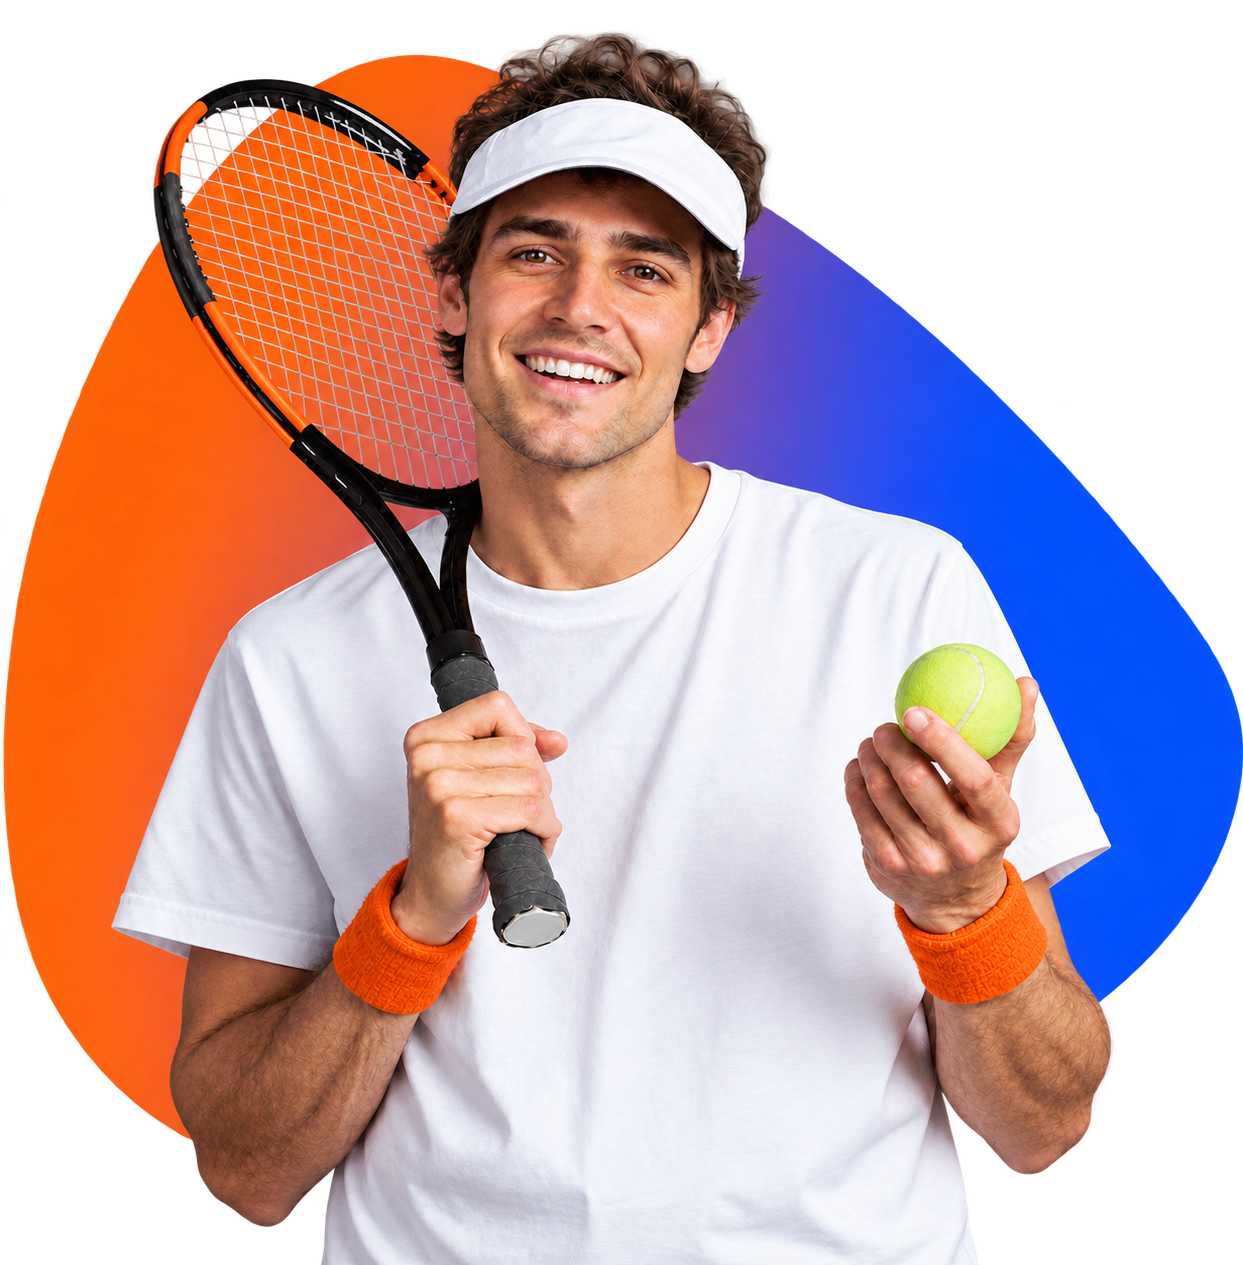
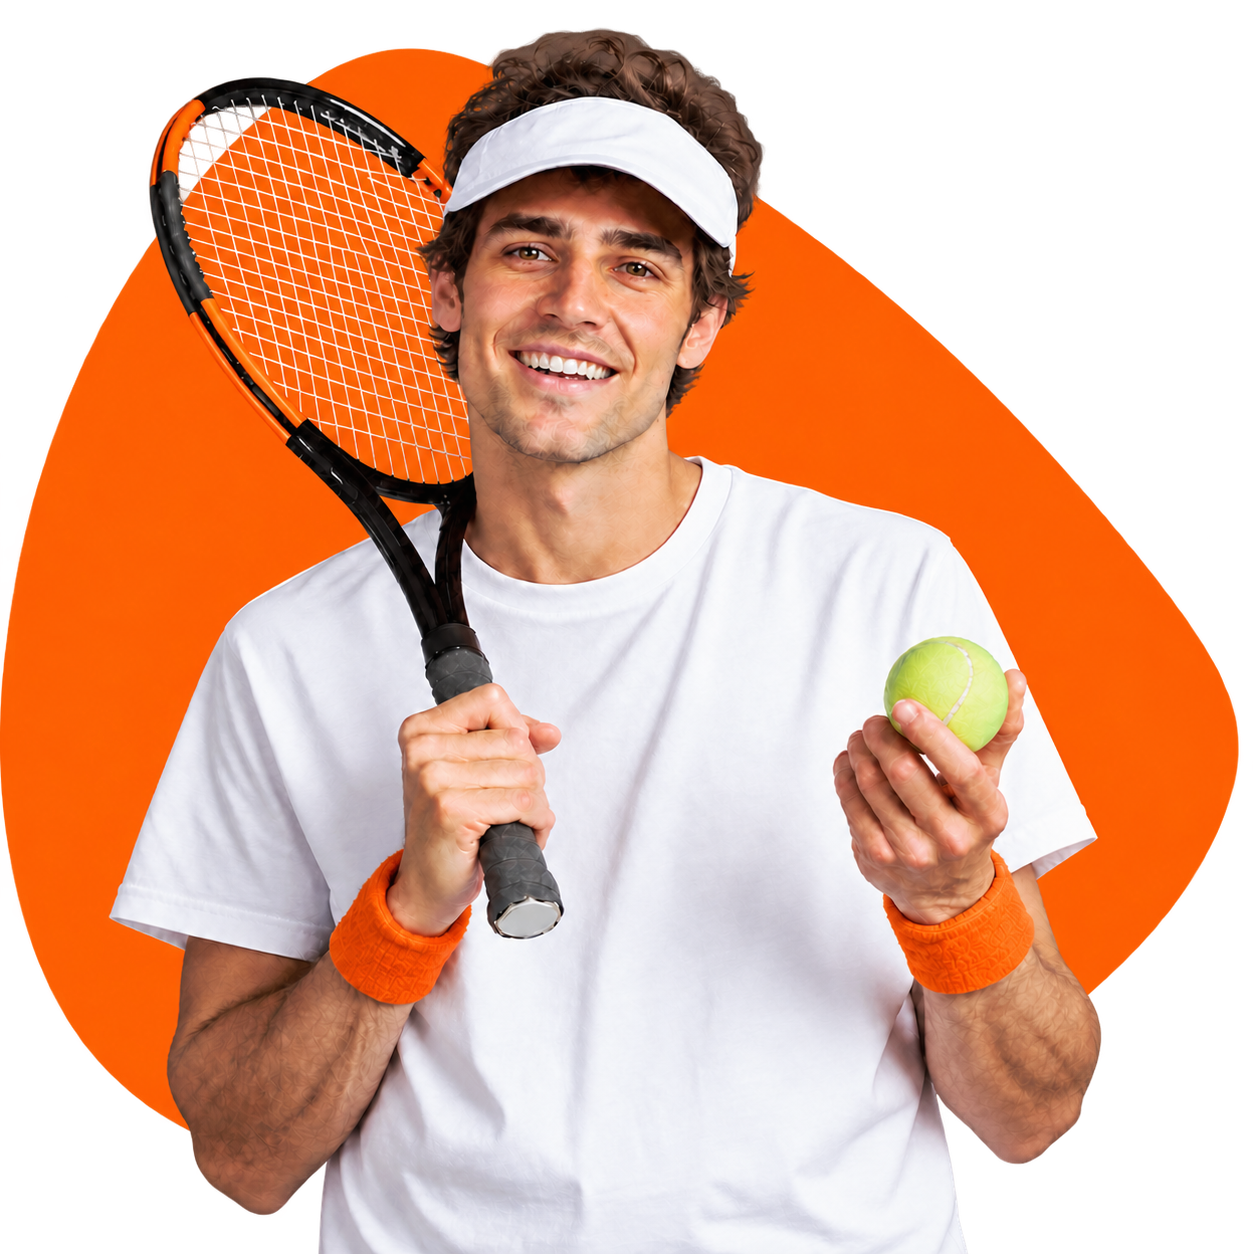
lastHeroUpdate-i-Swear

diff --git a/frontend/src/features/home/landing/HomeHero.tsx b/frontend/src/features/home/landing/HomeHero.tsx
@@ -21,7 +21,7 @@ export function HomeHero() {
           <p className="vx-pitch">
             {user
               ? `Bon retour, ${user.firstName || user.displayName}. Opportunités, séances, formations et devis — votre réseau avance, reprenez la main.`
-              : "Le fitness pour ceux qui traitent chaque séance comme une décision. Recrutement, coaching, formation et matériel — construits autour de vous."}
+              : "Le fitness pour ceux qui traitent chaque séance comme une décision. Recrutement, coaching, formation et matériel construits autour de vous."}
           </p>
           <div className="vx-actions">
             <Link className="vx-btn vx-btn-fill" to={primaryTo}>
